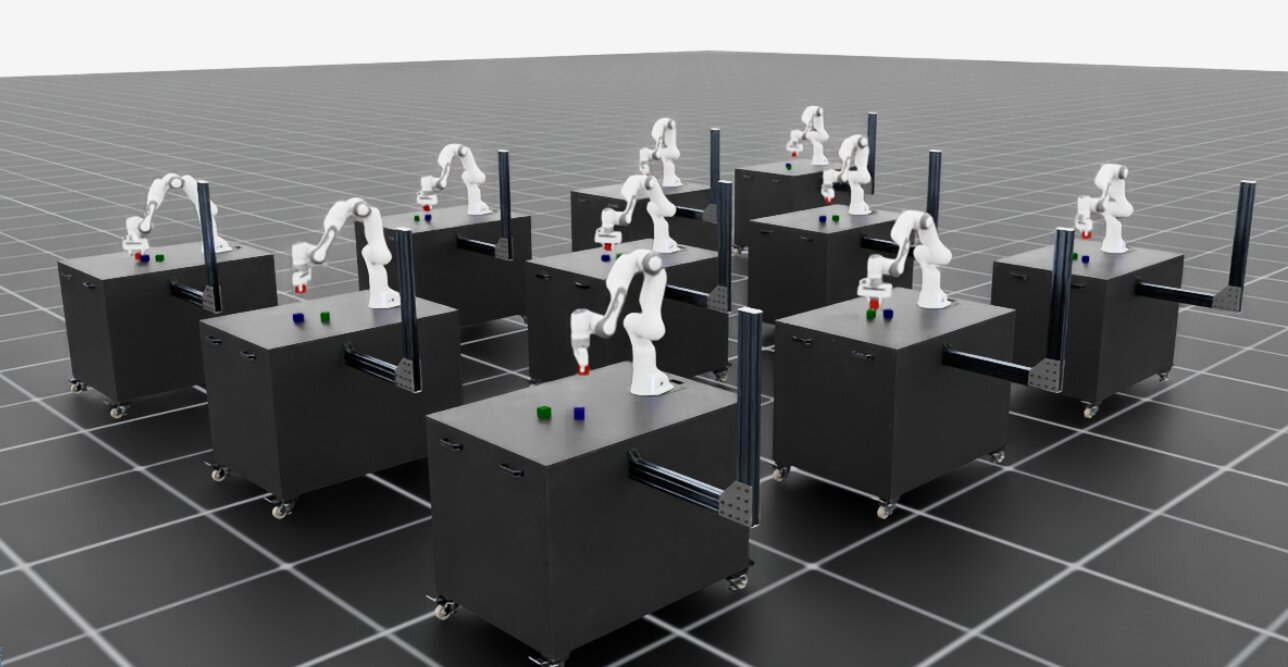
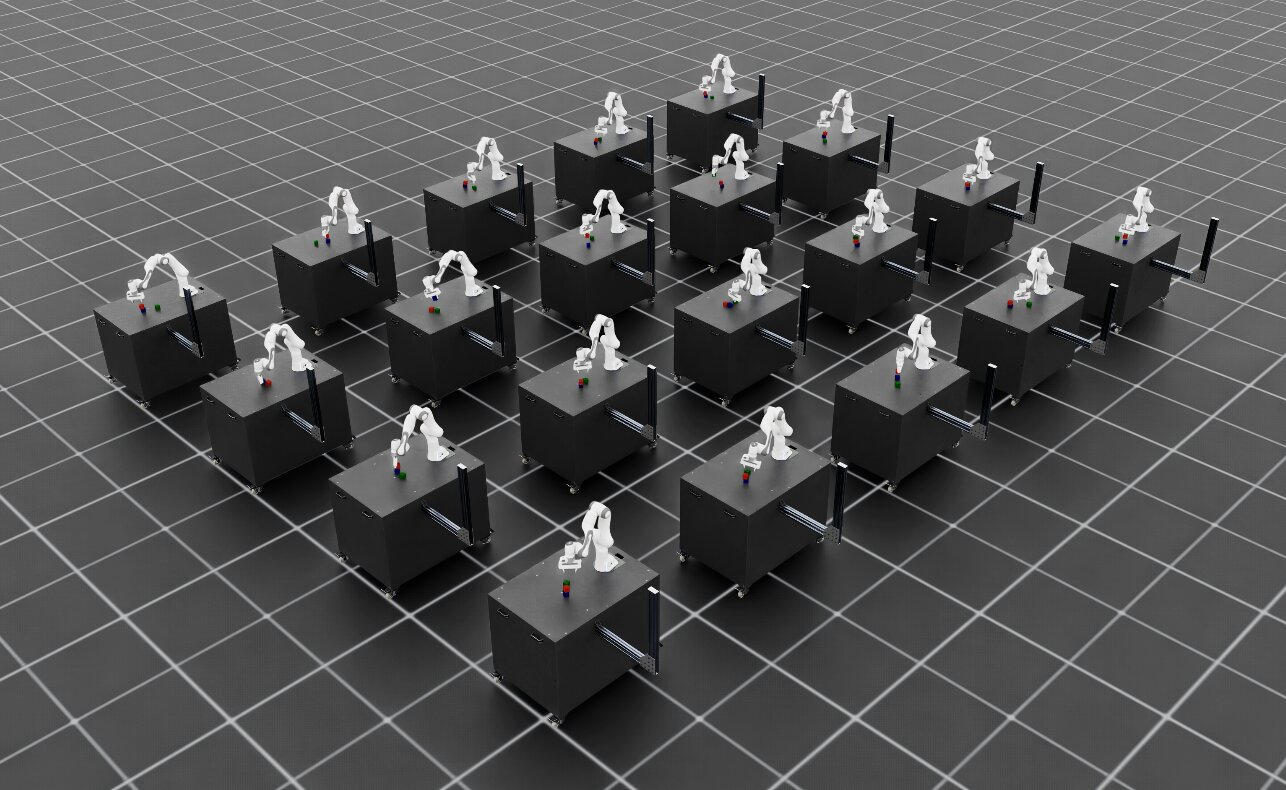
update images in mimic franka docs

diff --git a/docs/source/overview/imitation-learning/teleop_imitation.rst b/docs/source/overview/imitation-learning/teleop_imitation.rst
@@ -81,6 +81,14 @@ directions.
    --num_envs 1 \
    --task Isaac-Stack-Cube-Franka-IK-Rel-v0
 
+.. figure:: ../../_static/mimic/franka_cube_stacking_env.jpg
+   :width: 100%
+   :align: center
+   :alt: Franka cube stacking environment
+   :figclass: align-center
+
+   Franka cube stacking environment
+
 
 
 Teleoperation
@@ -310,7 +318,7 @@ Next, use Isaac Lab Mimic to generate some additional demonstrations:
 
          ./isaaclab.sh -p scripts/imitation_learning/isaaclab_mimic/generate_dataset.py \
          --viz kit \
-         --num_envs 10 \
+         --num_envs 20 \
          --generation_num_trials 10 \
          --input_file ./datasets/annotated_dataset.hdf5 \
          --output_file ./datasets/generated_dataset_small.hdf5
@@ -323,7 +331,7 @@ Next, use Isaac Lab Mimic to generate some additional demonstrations:
          ./isaaclab.sh -p scripts/imitation_learning/isaaclab_mimic/generate_dataset.py \
          --viz kit \
          --enable_cameras \
-         --num_envs 10 \
+         --num_envs 20 \
          --generation_num_trials 10 \
          --input_file ./datasets/annotated_dataset.hdf5 \
          --output_file ./datasets/generated_dataset_small.hdf5
@@ -334,7 +342,7 @@ Next, use Isaac Lab Mimic to generate some additional demonstrations:
    :alt: Franka robot performing a stacking task
    :figclass: align-center
 
-   Parallel data generation for the Franka robot stacking task.
+   Parallel data generation for the Franka robot stacking task
 
 .. tip::
 
@@ -485,7 +493,7 @@ is not always optimal.
    :alt: Robomimic BCRNN policy performing the cube stacking task
    :figclass: align-center
 
-   Robomimic BC RNN policy performing the cube stacking task.
+   Robomimic BC RNN policy performing the cube stacking task
 
 .. note::
 
